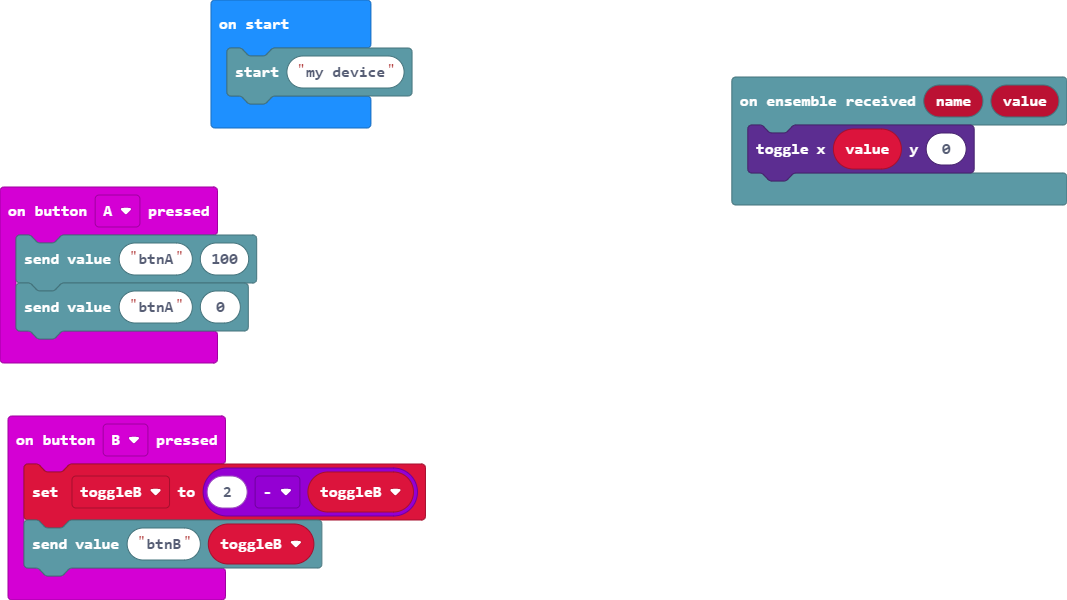
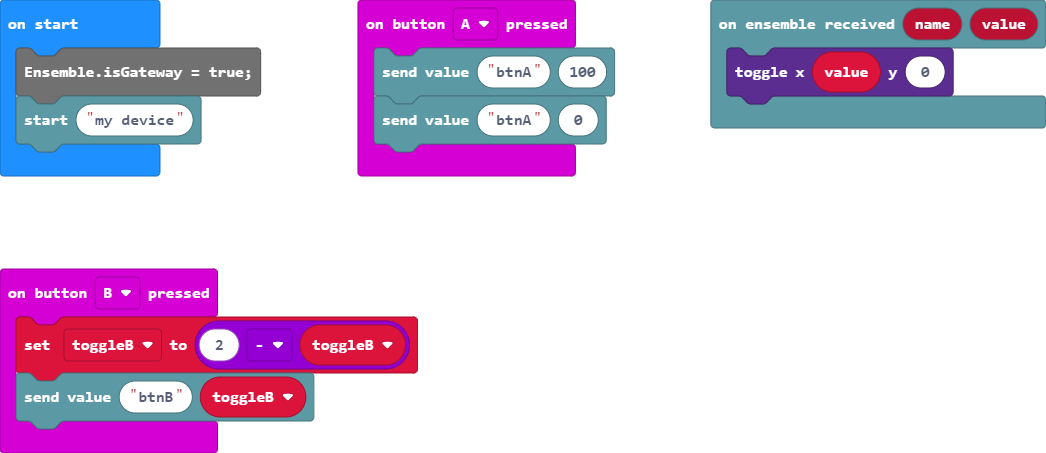
Update main.blocks, main.ts, Ensemble.ts

diff --git a/Ensemble.ts b/Ensemble.ts
@@ -20,18 +20,31 @@ namespace Ensemble
     let started = 0;
     let onReceivedValueHandler: (name: string, value: number) => void;
         
-    function sendId()
+    export let isGateway:boolean = false;
+    
+    function sendPacket(msgType:number, id:number, value:number, name:string)
     {
         let msg = pins.createBuffer(MAX_MESSAGE_LENGTH);
         msg.fill(0);
-        msg.setUint8(POS_MSG_TYPE, MSG_TYPE_DEVICE_ID);
-        msg.setNumber(NumberFormat.Int32LE, POS_DEVICE_ID, deviceId);
-        deviceName = control.deviceName().substr(0,MAX_NAME_LENGTH);
-        for(let i=0; i < MAX_NAME_LENGTH; i++)
+        msg.setUint8(POS_MSG_TYPE, msgType);
+        msg.setNumber(NumberFormat.Int32LE, POS_DEVICE_ID, id);
+        msg.setNumber(NumberFormat.Float32LE, POS_VALUE, value);
+        name = name.substr(0, MAX_NAME_LENGTH);
+        for(let i=0; i < name.length; i++)
         {
-            msg.setUint8(POS_NAME + i, deviceName.charCodeAt(i));
+            msg.setUint8(POS_NAME + i, name.charCodeAt(i));
         }
         radio.sendBuffer(msg);
+        if (isGateway)
+        {
+            serial.writeLine("");
+            serial.writeLine(msgType + "|" + id + "|" + value + "|" + name);
+        }
+    }
+
+    function sendId()
+    {
+        sendPacket(MSG_TYPE_DEVICE_ID, deviceId, 0, deviceName);
     }
 
     control.inBackground(function ()
@@ -48,28 +61,76 @@ namespace Ensemble
 
     radio.onReceivedBuffer(function (buff : Buffer)
     {
-       serial.writeLine(buff.length());
        let msgType = buff.getUint8(POS_MSG_TYPE);
        let devId = buff.getNumber(NumberFormat.Int32LE, POS_DEVICE_ID);
-       let value = buff.getNumber(NumberFormat.Int32LE, POS_VALUE);
+       let value = buff.getNumber(NumberFormat.Float32LE, POS_VALUE);
        let name = "";
        let i = 0;
        let ch = buff.getUint8(POS_NAME + i++);
        while((ch != 0) && (i < MAX_NAME_LENGTH))
        {
-           name = name + String.fromCharCode(ch);
+           let newCh = String.fromCharCode(ch);
+           if (newCh == '|')
+           {
+               newCh = '_';
+           }
+           name = name + newCh;
            ch = buff.getUint8(POS_NAME + i++);
        }
-        serial.writeLine("typ " + msgType + " dev " + devId + " val " + value + " name " + name);
-//        if ((msgType == MSG_TYPE_VALUE_FROM_ENSEMBLE) && (devId == deviceId))
-        if ((msgType == MSG_TYPE_VALUE_TO_ENSEMBLE) && (devId != deviceId))
+
+        switch(msgType)
         {
-            if (onReceivedValueHandler)
-            {
-                onReceivedValueHandler(name, value);        
-            }
-        }        
+            case MSG_TYPE_VALUE_FROM_ENSEMBLE:
+                if (devId == deviceId)
+                {
+                    if (onReceivedValueHandler)
+                    {
+                        onReceivedValueHandler(name, value);        
+                    }
+                }        
+                break;           
+
+            case MSG_TYPE_VALUE_TO_ENSEMBLE:
+            case MSG_TYPE_DEVICE_ID:
+                if (isGateway)
+                {
+                    serial.writeLine("");
+                    serial.writeLine(msgType + "|" + devId + "|" + value + "|" + name);
+                }
+                break;
+        }
     })
+
+    serial.onDataReceived(serial.delimiters(Delimiters.NewLine), function () 
+    {
+        if (started && isGateway)
+        {
+            let buff = serial.readLine();
+            let toks = buff.split("|");
+            if (toks.length >= 4)
+            {
+                let msgType = parseInt(toks[0]);
+                if (msgType == MSG_TYPE_VALUE_FROM_ENSEMBLE)
+                {
+                    let devId = parseInt(toks[1]);
+                    let value = parseFloat(toks[2]);
+                    let name = toks[3].trim();
+                    if (devId == deviceId)
+                    {
+                        if (onReceivedValueHandler)
+                        {
+                            onReceivedValueHandler(name, value);        
+                        }
+                    }        
+                    else
+                    {
+                        sendPacket(msgType, devId, value, name);
+                    }
+                }
+            }
+        }
+    })
+
 
    /**
      * Registers code to run when the radio receives a value from Ensemble
@@ -89,17 +150,10 @@ namespace Ensemble
     //% block="send|value %n %v"
     export function sendValue(name:string, value:number)
     {
-        let msg = pins.createBuffer(MAX_MESSAGE_LENGTH);
-        msg.fill(0);
-        msg.setUint8(POS_MSG_TYPE, MSG_TYPE_VALUE_TO_ENSEMBLE);
-        msg.setNumber(NumberFormat.Int32LE, POS_DEVICE_ID, deviceId);
-        msg.setNumber(NumberFormat.Int32LE, POS_VALUE, value);
-        name = name.substr(0, MAX_NAME_LENGTH);
-        for(let i=0; i < name.length; i++)
+        if (started)
         {
-            msg.setUint8(POS_NAME + i, name.charCodeAt(i));
+            sendPacket(MSG_TYPE_VALUE_TO_ENSEMBLE, deviceId, value, name);
         }
-        radio.sendBuffer(msg);
     }
 
     /**
@@ -122,7 +176,7 @@ namespace Ensemble
     //% block="start %n"
     export function start(name:string)
     {
-        deviceName = name.substr(0, MAX_NAME_LENGTH);
+        deviceName = name.substr(0, MAX_NAME_LENGTH).replace("|", "_");
         started = 1;
         radio.setGroup(1)
         radio.setTransmitSerialNumber(true);

diff --git a/main.ts b/main.ts
@@ -10,4 +10,5 @@ Ensemble.onReceivedValue(function (name, value) {
     led.toggle(value, 0)
 })
 let toggleB = 0
+Ensemble.isGateway = true;
 Ensemble.start("my device")
